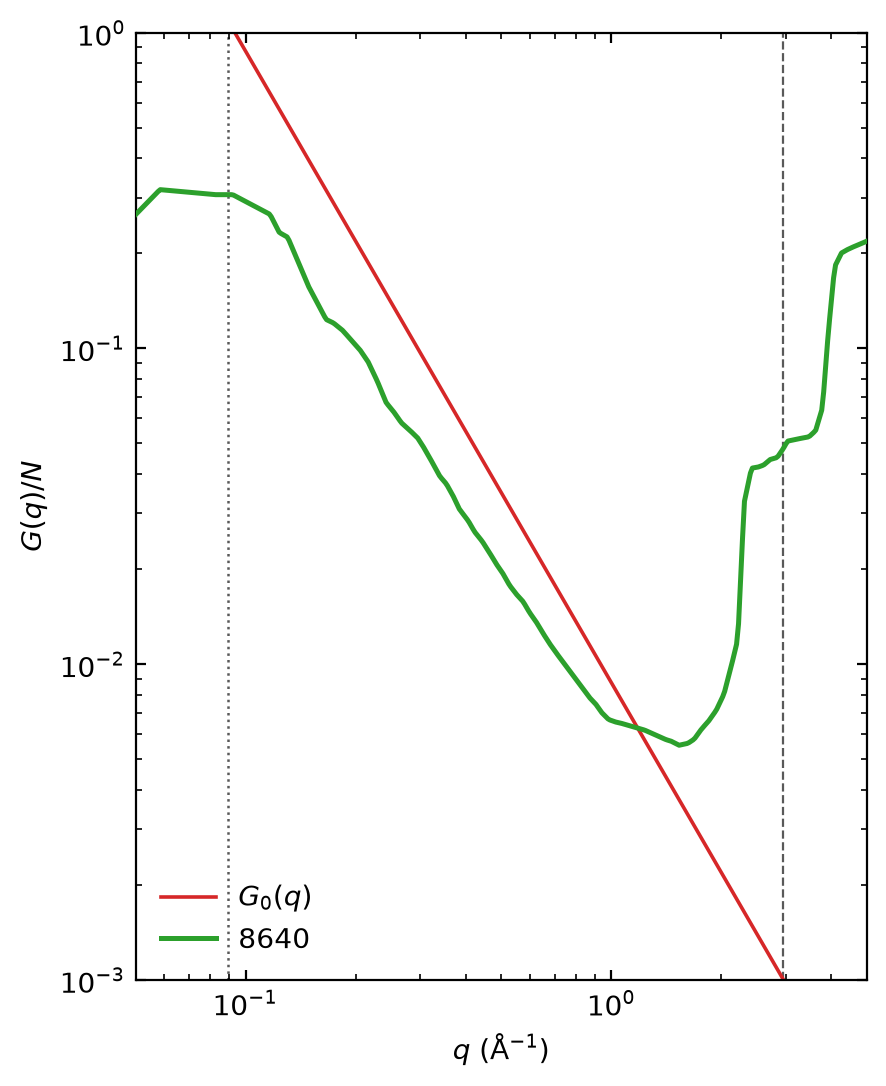
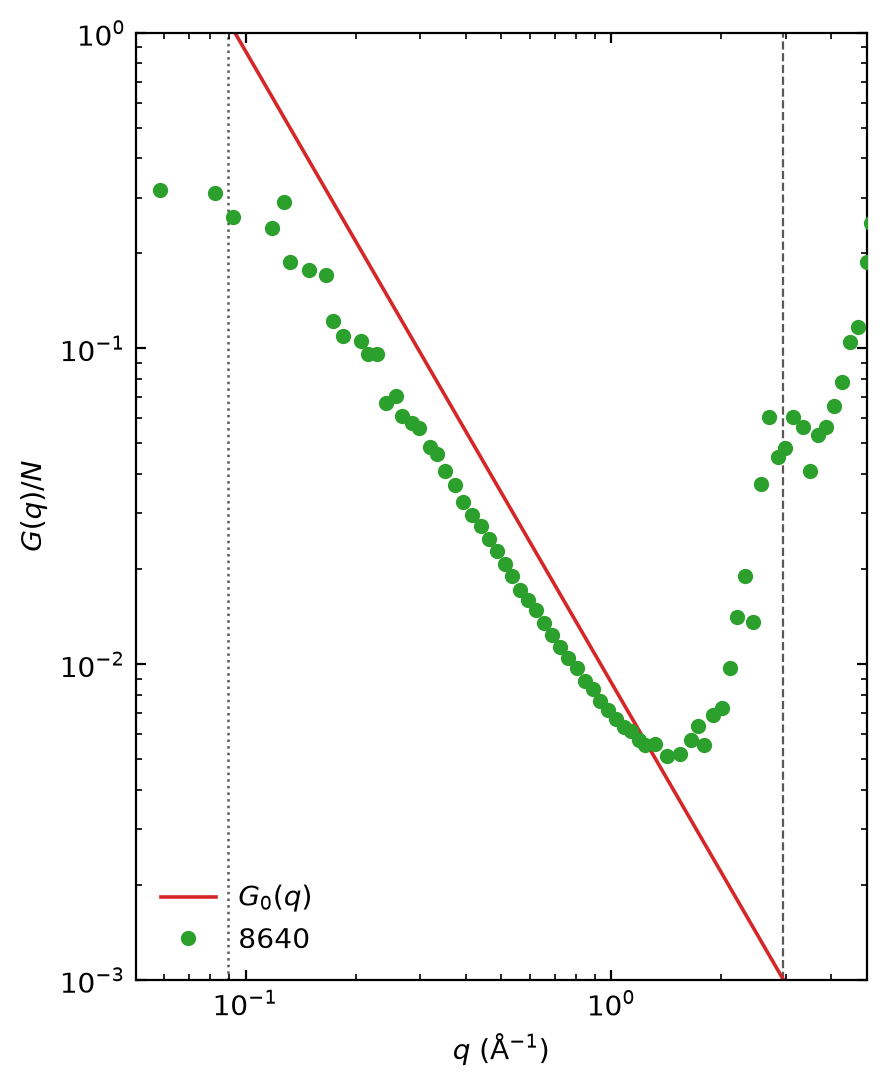
fix(plots): draw each G(q) shell as a point
A smoothed line hid the measured shells. Each point is now the median of one |q| star, and G0 stays the reference line.

diff --git a/scripts/figuras_estudio.py b/scripts/figuras_estudio.py
@@ -1,0 +1,254 @@
+#!/usr/bin/env python3
+"""Figuras del estudio LCBOPII (N<=4860) y de la comparación con Tersoff.
+
+Los espectros se dibujan con puntos: cada punto es la mediana de una
+estrella de |q|. Una línea fina solo une esos puntos.
+"""
+
+from __future__ import annotations
+
+import sys
+from pathlib import Path
+
+import matplotlib
+
+matplotlib.use("Agg")
+import matplotlib.pyplot as plt
+import numpy as np
+
+ROOT = Path(__file__).resolve().parents[1]
+sys.path.insert(0, str(ROOT / "src"))
+sys.path.insert(0, str(ROOT / "scripts"))
+
+from contrastar_paper import informe  # noqa: E402
+from ripples.lattice import KAPPA_300K  # noqa: E402
+from ripples.observables import G0_harmonic, cluster_shells  # noqa: E402
+
+SIZES = [240, 960, 2160, 4860]
+COLORES = {240: "#1f77b4", 960: "#ff7f0e", 2160: "#2ca02c", 4860: "#d62728"}
+MARCAS = {240: "o", 960: "s", 2160: "^", 4860: "D"}
+Q_RIPPLE = 2.0 * np.pi / 70.0
+A_CC = 1.42
+BRAGG_1 = 4.0 * np.pi / (3.0 * A_CC)
+FIG3_Q = (0.05, 5.0)
+FIG3_G = (1.0e-3, 1.0)
+FIG5_R = (0.0, 3.5)
+
+L_BASE = ROOT / "results" / "lcbopii"
+T_BASE = ROOT / "results"
+L_GRAF = L_BASE / "tabla" / "graficas"
+C_GRAF = ROOT / "results" / "comparacion" / "graficas"
+
+
+def _ejes(ax) -> None:
+    ax.tick_params(which="both", direction="in", top=True, right=True, labelsize=9)
+    for spine in ax.spines.values():
+        spine.set_color("black")
+        spine.set_linewidth(0.8)
+
+
+def cargar(base: Path, n: int) -> dict:
+    info = informe(base / f"n{n}" / "datos")
+    q, g, _ = cluster_shells(info["q"], info["g"], tol=0.05)
+    info["qb"] = q
+    info["gb"] = g
+    return info
+
+
+def rdf(base: Path, n: int) -> tuple[np.ndarray, np.ndarray]:
+    path = base / f"n{n}" / "datos" / "rdf_mean.csv"
+    d = np.genfromtxt(path, delimiter=",", names=True)
+    return np.asarray(d["r"], dtype=np.float64), np.asarray(d["g"], dtype=np.float64)
+
+
+def serie_gq(ax, info: dict, marca: str, relleno: bool) -> None:
+    q, g = info["qb"], info["gb"]
+    sel = (q >= FIG3_Q[0]) & (q <= FIG3_Q[1]) & (g > 0)
+    kw = dict(
+        color=COLORES[info["N"]],
+        marker=MARCAS[info["N"]],
+        ms=5.0 if marca == "L" else 4.2,
+        ls="none",
+        markerfacecolor=COLORES[info["N"]] if relleno else "white",
+        markeredgecolor=COLORES[info["N"]],
+        markeredgewidth=0.8,
+        label=str(info["N"]),
+        zorder=3,
+    )
+    ax.plot(q[sel], g[sel], **kw)
+
+
+def marco_gq(ax, s0: float) -> None:
+    q_th = np.logspace(np.log10(FIG3_Q[0]), np.log10(FIG3_Q[1]), 400)
+    g0 = G0_harmonic(q_th, 1, s0, T=300.0, kappa=KAPPA_300K)
+    ax.loglog(q_th, g0, color="#d62728", lw=1.3, label=r"$G_0$", zorder=2)
+    ax.axvline(Q_RIPPLE, color="0.35", ls=":", lw=0.9, zorder=1)
+    ax.axvline(BRAGG_1, color="0.35", ls="--", lw=0.8, zorder=1)
+    ax.set_xlim(*FIG3_Q)
+    ax.set_ylim(*FIG3_G)
+    ax.set_xlabel(r"$q$ (Å$^{-1}$)")
+    ax.set_ylabel(r"$G(q)/N$")
+    ax.legend(frameon=False, fontsize=8, loc="lower left")
+    _ejes(ax)
+
+
+def figura_gq(filas: list[dict], destino: Path) -> None:
+    fig, ax = plt.subplots(figsize=(4.9, 6.15))
+    ax.set_box_aspect(202.0 / 156.0)
+    for info in filas:
+        serie_gq(ax, info, "L", True)
+    marco_gq(ax, filas[-1]["S0"])
+    fig.savefig(destino, dpi=170, bbox_inches="tight")
+    plt.close(fig)
+
+
+def figura_rdf(filas: list[dict], base: Path, destino: Path) -> None:
+    fig, axes = plt.subplots(1, 2, figsize=(8.6, 4.0), gridspec_kw={"width_ratios": [1.35, 1]})
+    ax, zoom = axes
+    for info in filas:
+        r, g = rdf(base, info["N"])
+        color = COLORES[info["N"]]
+        marca = MARCAS[info["N"]]
+        ax.plot(
+            r, g, color=color, lw=0.7, marker=marca, ms=3.2, markevery=4,
+            markerfacecolor=color, markeredgewidth=0, label=str(info["N"]),
+        )
+        m = (r >= 1.15) & (r <= 1.75)
+        zoom.plot(
+            r[m], g[m], color=color, lw=0.7, marker=marca, ms=4.0, markevery=1,
+            markerfacecolor=color, markeredgewidth=0,
+        )
+    for eje in (ax, zoom):
+        eje.axvline(1.31, color="0.25", ls=":", lw=0.8)
+        eje.axvline(1.42, color="0.15", ls="--", lw=0.9)
+        eje.axvline(1.54, color="0.25", ls=":", lw=0.8)
+        eje.set_ylim(0.0, 16.0)
+        eje.set_xlabel(r"$r$ (Å)")
+        _ejes(eje)
+    ax.axhspan(0.0, 3.0, color="#d62728", alpha=0.08, zorder=0)
+    ax.set_xlim(*FIG5_R)
+    ax.set_ylabel(r"$g(r)$")
+    ax.legend(frameon=False, fontsize=8, loc="upper right")
+    zoom.set_xlim(1.15, 1.75)
+    zoom.set_title("primer pico", fontsize=9)
+    fig.savefig(destino, dpi=170, bbox_inches="tight")
+    plt.close(fig)
+
+
+def figura_h(filas: list[dict], destino: Path, ancla: str) -> None:
+    fig, ax = plt.subplots(figsize=(6.0, 4.4))
+    largo = np.array([max(f["lx"], f["ly"]) for f in filas])
+    h = np.array([f["h_rms"] for f in filas])
+    e = np.array([f["h_rms_std"] for f in filas])
+    ax.errorbar(
+        largo, h, yerr=e, fmt="o", color="#1f77b4", ms=7, lw=0.8, capsize=3,
+        label=r"$h_{\mathrm{rms}}$",
+    )
+    guia = h[0] * largo / largo[0]
+    ax.plot(largo, guia, "--", color="#d62728", label=r"armónico $\propto L$")
+    for f, x, y in zip(filas, largo, h):
+        ax.annotate(str(f["N"]), (x, y), textcoords="offset points", xytext=(6, 4), fontsize=8)
+    ax.set_xlabel(r"$L$ (Å)")
+    ax.set_ylabel(r"$h_{\mathrm{rms}}$ (Å)")
+    ax.legend(frameon=False)
+    _ejes(ax)
+    fig.savefig(destino, dpi=160, bbox_inches="tight")
+    plt.close(fig)
+    del ancla
+
+
+def figura_foto(destino: Path) -> None:
+    snap = L_BASE / "n4860" / "datos" / "replica_00_snapshot.csv"
+    d = np.genfromtxt(snap, delimiter=",", names=True)
+    h = d["z"] - np.mean(d["z"])
+    fig, ax = plt.subplots(figsize=(6.4, 5.6))
+    sc = ax.scatter(d["x"], d["y"], c=h, cmap="coolwarm", s=3.0, linewidths=0)
+    x0 = float(np.min(d["x"])) + 8.0
+    y0 = float(np.min(d["y"])) + 10.0
+    ax.plot([x0, x0 + 70.0], [y0, y0], color="black", lw=2.4, solid_capstyle="butt")
+    ax.text(x0 + 35.0, y0 + 4.5, "70 Å", ha="center", va="bottom", fontsize=9)
+    ax.set_aspect("equal")
+    ax.set_xlabel(r"$x$ (Å)")
+    ax.set_ylabel(r"$y$ (Å)")
+    fig.colorbar(sc, ax=ax, shrink=0.78, label=r"$h$ (Å)")
+    _ejes(ax)
+    fig.savefig(destino, dpi=160, bbox_inches="tight")
+    plt.close(fig)
+
+
+def figura_comparacion(tersoff: list[dict], lcbop: list[dict]) -> None:
+    fig, axes = plt.subplots(1, 2, figsize=(8.4, 5.4), sharey=True)
+    for ax, filas, titulo, relleno in (
+        (axes[0], tersoff, "Tersoff", False),
+        (axes[1], lcbop, "LCBOPII", True),
+    ):
+        ax.set_box_aspect(202.0 / 156.0)
+        for info in filas:
+            serie_gq(ax, info, "T" if not relleno else "L", relleno)
+        marco_gq(ax, filas[-1]["S0"])
+        ax.set_title(titulo, fontsize=11)
+    fig.savefig(C_GRAF / "Gq_comparacion.png", dpi=170, bbox_inches="tight")
+    plt.close(fig)
+
+    fig, axes = plt.subplots(1, 2, figsize=(8.6, 4.0))
+    for ax, filas, base, titulo, relleno in (
+        (axes[0], tersoff, T_BASE, "Tersoff", False),
+        (axes[1], lcbop, L_BASE, "LCBOPII", True),
+    ):
+        for info in filas:
+            r, g = rdf(base, info["N"])
+            m = (r >= 1.15) & (r <= 1.75)
+            ax.plot(
+                r[m], g[m], color=COLORES[info["N"]], lw=0.6,
+                marker=MARCAS[info["N"]], ms=3.6, markevery=1,
+                markerfacecolor=COLORES[info["N"]] if relleno else "white",
+                markeredgecolor=COLORES[info["N"]], markeredgewidth=0.6,
+                label=str(info["N"]),
+            )
+        for x, estilo in ((1.31, ":"), (1.42, "--"), (1.54, ":")):
+            ax.axvline(x, color="0.25", ls=estilo, lw=0.8)
+        ax.set_xlim(1.15, 1.75)
+        ax.set_ylim(0.0, 16.0)
+        ax.set_xlabel(r"$r$ (Å)")
+        ax.set_title(titulo, fontsize=11)
+        ax.legend(frameon=False, fontsize=8)
+        _ejes(ax)
+    axes[0].set_ylabel(r"$g(r)$")
+    fig.savefig(C_GRAF / "rdf_comparacion.png", dpi=170, bbox_inches="tight")
+    plt.close(fig)
+
+    fig, ax = plt.subplots(figsize=(6.2, 4.5))
+    for filas, color, marca, nombre in (
+        (tersoff, "#1f77b4", "o", "Tersoff"),
+        (lcbop, "#d62728", "D", "LCBOPII"),
+    ):
+        largo = np.array([max(f["lx"], f["ly"]) for f in filas])
+        h = np.array([f["h_rms"] for f in filas])
+        e = np.array([f["h_rms_std"] for f in filas])
+        ax.errorbar(
+            largo, h, yerr=e, fmt=marca, color=color, ms=7, lw=0.8, capsize=3, label=nombre,
+        )
+    ax.set_xlabel(r"$L$ (Å)")
+    ax.set_ylabel(r"$h_{\mathrm{rms}}$ (Å)")
+    ax.legend(frameon=False)
+    _ejes(ax)
+    fig.savefig(C_GRAF / "hrms_comparacion.png", dpi=160, bbox_inches="tight")
+    plt.close(fig)
+
+
+def main() -> None:
+    L_GRAF.mkdir(parents=True, exist_ok=True)
+    C_GRAF.mkdir(parents=True, exist_ok=True)
+    lcbop = [cargar(L_BASE, n) for n in SIZES]
+    tersoff = [cargar(T_BASE, n) for n in SIZES]
+    figura_gq(lcbop, L_GRAF / "Gq_fig3.png")
+    figura_rdf(lcbop, L_BASE, L_GRAF / "rdf_fig5.png")
+    figura_h(lcbop, L_GRAF / "hrms_vs_L.png", "L")
+    figura_foto(L_GRAF / "snapshot_fig1.png")
+    figura_comparacion(tersoff, lcbop)
+    print("PNG:", L_GRAF)
+    print("PNG:", C_GRAF)
+
+
+if __name__ == "__main__":
+    main()

diff --git a/scripts/generate_plots.py b/scripts/generate_plots.py
@@ -21,7 +21,7 @@ sys.path.insert(0, str(ROOT / "src"))
 from matplotlib.ticker import LogFormatterMathtext, LogLocator, NullFormatter
 
 from ripples.lattice import KAPPA_300K  # noqa: E402
-from ripples.observables import G0_harmonic, spectrum_curve  # noqa: E402
+from ripples.observables import G0_harmonic, cluster_shells  # noqa: E402
 
 DATOS = ROOT / "results" / "datos"
 GRAF = ROOT / "results" / "graficas"
@@ -165,15 +165,20 @@ def plot_gq():
             q = np.concatenate([q, q_hi[extra]])
             g = np.concatenate([g, g_hi[extra]])
     # Mismos ejes que la Fig. 3 del paper: q de 0.05 a 5, G/N de 1e-3 a 1.
-    # La curva es la mediana en ventana logarítmica, no cada estrella de |q|.
-    q_line, g_line = spectrum_curve(q, g)
+    # Cada punto es la mediana de una estrella de |q|, sin unirlos.
+    q_pts, g_pts, _ = cluster_shells(q, g, tol=0.05)
     q_th = np.logspace(np.log10(0.05), np.log10(5.0), 400)
     g0 = G0_harmonic(q_th, n_atoms, s0, T=T, kappa=KAPPA_300K)
 
     fig, ax = plt.subplots(figsize=(4.9, 6.15))
     ax.set_box_aspect(202.0 / 156.0)
-    ax.loglog(q_th, g0, color="#d62728", lw=1.3, label=r"$G_0(q)$", zorder=2)
-    ax.loglog(q_line, g_line, color="#2ca02c", lw=1.8, label=str(n_atoms), zorder=3)
+    ax.set_xscale("log")
+    ax.set_yscale("log")
+    ax.plot(q_th, g0, color="#d62728", lw=1.3, label=r"$G_0(q)$", zorder=2)
+    ax.plot(
+        q_pts, g_pts, ls="none", marker="o", ms=5.5,
+        color="#2ca02c", markeredgewidth=0, label=str(n_atoms), zorder=3,
+    )
     ax.axvline(2.0 * np.pi / 70.0, color="0.35", ls=":", lw=0.9, zorder=1)
     ax.axvline(4.0 * np.pi / (3.0 * 1.42), color="0.35", ls="--", lw=0.8, zorder=1)
     ax.set_xlim(0.05, 5.0)
